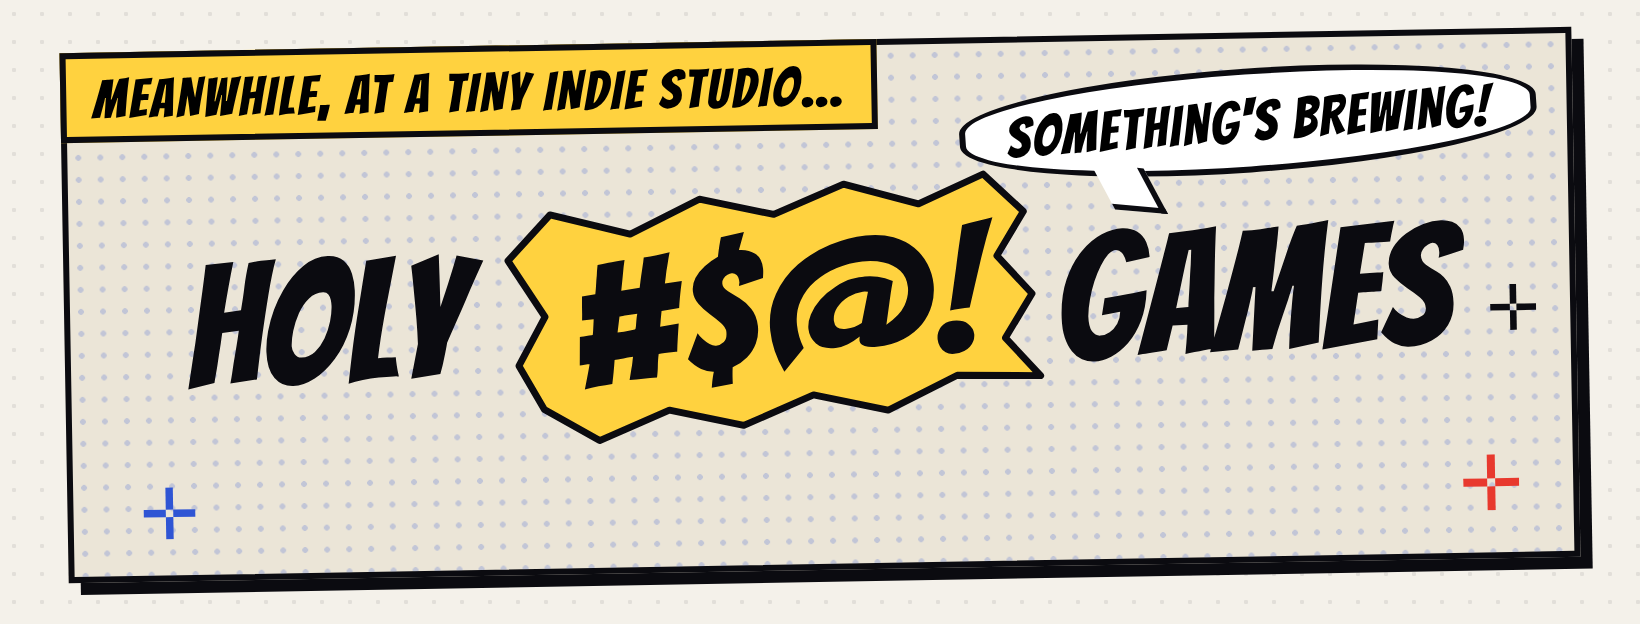
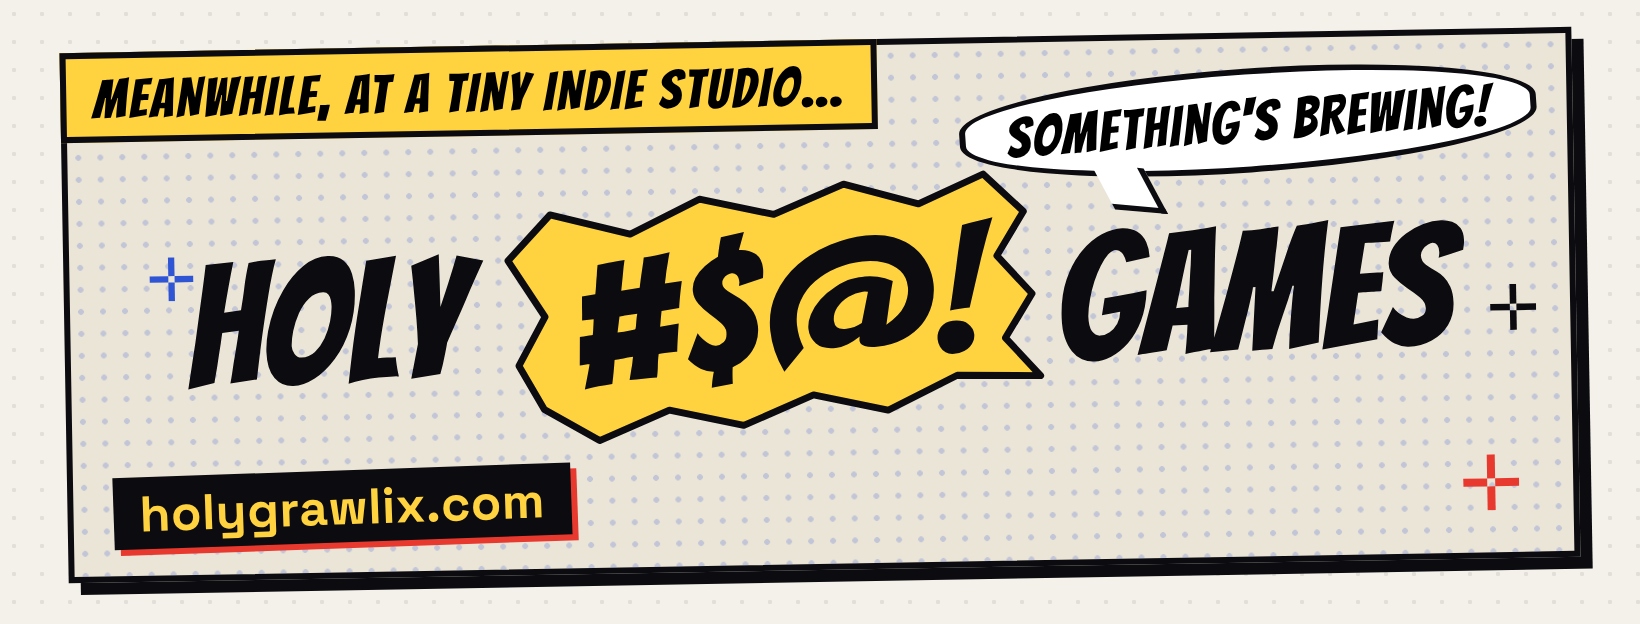
Facebook cover: add holygrawlix.com label
Claude-Session: https://claude.ai/code/session_01UxKuUrR69qpY3mxtoTGaer

Changed region(s): [[0.0622, 0.7308, 0.3732, 0.9135], [0.0933, 0.4263, 0.1244, 0.4872]]

diff --git a/brand/social/facebook/build_cover.js b/brand/social/facebook/build_cover.js
@@ -13,12 +13,14 @@ body{width:1640px;height:624px;overflow:hidden;position:relative;background:#F4F
 .logo{position:absolute;left:50%;top:50%;width:1340px;transform:translate(-50%,-50%) rotate(-1deg)}
 .balloon{position:absolute;right:30px;top:30px;background:#fff;border:6px solid #0B0B10;border-radius:50%/44%;padding:20px 40px 16px;font-family:Bangers;font-size:56px;letter-spacing:.04em;line-height:1;transform:rotate(-3deg)}
 .balloon::after{content:"";position:absolute;left:24%;bottom:-38px;width:42px;height:42px;background:#fff;border-right:6px solid #0B0B10;border-bottom:6px solid #0B0B10;transform:skewX(32deg) rotate(10deg)}
+.url{position:absolute;left:40px;bottom:30px;background:#0B0B10;color:#FFD23F;padding:12px 26px 10px;font-family:'Space Grotesk';font-weight:700;font-size:50px;letter-spacing:.01em;line-height:1;transform:rotate(-1deg);box-shadow:6px 6px 0 #E8392E}
 </style>
 <div class="grid"></div>
 <div class="panel"><div class="dots"></div>
  <div class="narr">MEANWHILE, AT A TINY INDIE STUDIO…</div>
- ${spark('#2F55D4',52,70,430)}${spark('#E8392E',56,1390,420)}${spark("#0B0B10",46,1420,250)}
+ ${spark('#2F55D4',44,80,200)}${spark('#E8392E',56,1390,420)}${spark("#0B0B10",46,1420,250)}
  <img class="logo" src="${logo}">
+ <div class="url">holygrawlix.com</div>
  <div class="balloon">SOMETHING'S BREWING!</div>
 </div>`;
 (async()=>{const b=await chromium.launch(); const p=await b.newPage({viewport:{width:1640,height:624}}); await p.setContent(html); await p.evaluate(()=>document.fonts.ready); await p.waitForTimeout(400); await p.screenshot({path:OUT+'cover-1640x624.png'});
